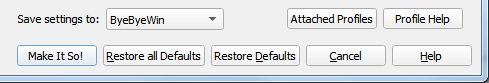
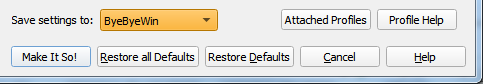
Update option profiles section to show highlighted settings

diff --git a/usage/option_profiles.rst b/usage/option_profiles.rst
@@ -113,11 +113,18 @@ the desired changes, and then click the :guilabel:`Make It So!` button.
    :width: 100 %
 
 The changes will only be applied to the selected profile, and only for option settings managed by the profile — all other changes will
-be ignored.  The default target is "User base settings" which is the user's normal settings, and includes all options.  If no option
-profiles have been defined, this "Save settings to:" section will not be displayed in the :menuselection:`"Options..."` window.
+be ignored.  When the Options dialog is opened, the output target is automatically set to the first enabled profile in the profile
+stack.  If there are no enabled profiles, then the target is set to "User base settings" which is the user's normal settings, and
+includes all options.  If no option profiles have been defined, this "Save settings to:" section will not be displayed in the
+:menuselection:`"Options..."` window.
 
 Whenever a profile is selected in the "Save settings to:" section, the setting values displayed are updated to show the values that
-are associated with the profile. Any option settings not managed by the profile will display the values for the user's base settings.
+are associated with the profile, and the settings are highlighted in the dialog. Any option settings not managed by the profile will
+display the values for the user's base settings.  In addition, the "Save settings to:" selector will be highlighted to indicate that
+there is a profile selected as the output target.
+
+.. image:: images/option-setting-values-highlighted.png
+   :width: 100 %
 
 From the :menuselection:`"Options..."` window you will also be able to see which profiles, if any, manage any of the options on
 the current page.  This is done by clicking the :guilabel:`Attached Profiles` button beside the output target profile selector.
